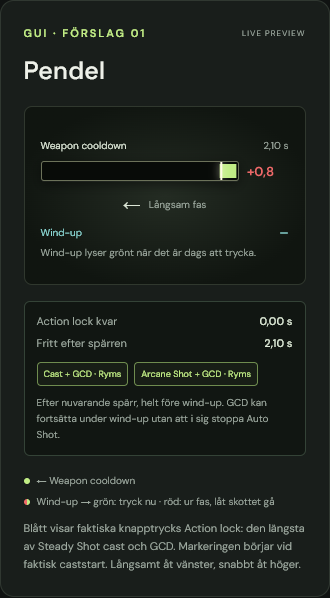
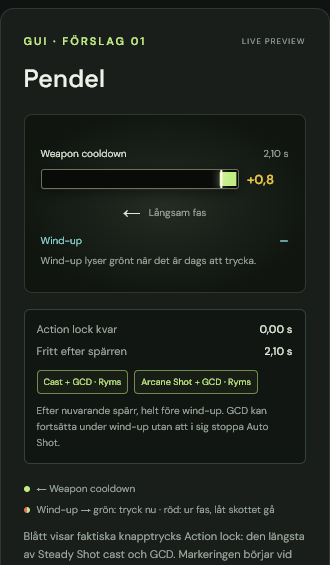
0.6.0: gul eller röd förskjutning efter brytpunkt
Förskjutningssiffran är gul när en extra spell (allt utom Steady Shot
som startar GCD) användes inom två cykler och förskjutningen ligger
under brytpunkten, annars röd. Brytpunkten är 1,3 s, uppmätt från
spelarens skada (Arcane 698 mot Auto Shot 632 + Steady 561), och
ändras med /ozs breakeven eller simulatorns reglage. Rotations- och
skademätningarna är dokumenterade i docs/timing-design.md.

diff --git a/swing-lab/dist/app.js b/swing-lab/dist/app.js
@@ -18,7 +18,7 @@ function text(id, value) {
 const sim = new Simulation();
 // Measured in TBC Anniversary 2.5.6 (docs/timing-design.md); prototype = the original dummy values.
 const PRESETS = {
-  measured: {interval: 2.29, wind: 0.36, gcd: 1.5, duration: 1.11, gcdStart: 'press'},
+  measured: {interval: 2.29, wind: 0.36, gcd: 1.5, duration: 1.11, breakEven: 1.3, gcdStart: 'press'},
   prototype: {interval: 2.8, wind: 0.5, gcd: 1, duration: 1.5, gcdStart: 'cast'}
 };
 let selectedHandle = 'cast';
@@ -54,6 +54,8 @@ function render(readouts = true) {
   cursor.style.transform = `translateX(${pendulum.cursor * 100}%)`;
   // Red delay of the last Auto Shot, one decimal, right of the bar.
   text('pendulumDelay', sim.delay >= 0.05 ? '+' + number(sim.delay, 1) : '');
+  // Yellow: an instant caused it and it stays below break-even; red otherwise.
+  $('pendulumDelay').classList.toggle('worth', !!sim.delayWorthIt);
   if (readouts) renderWindupStatus(sim);
   if (readouts) {
     const budget = actionBudget(sim);
@@ -154,7 +156,7 @@ for (const [id, kind] of [['castOffset', 'cast'], ['instantOffset', 'instant']])
   $(id).addEventListener('focus', () => selectHandle(kind));
 }
 function settings() {
-  for (const id of ['interval', 'wind', 'gcd', 'duration']) {
+  for (const id of ['interval', 'wind', 'gcd', 'duration', 'breakEven']) {
     sim.config[id] = Number($(id).value); $(id + 'Value').textContent = format(sim.config[id]);
   }
   sim.config.mode = $('mode').value;
@@ -262,7 +264,7 @@ function settings() {
   text('instantLabel', '10 skada direkt · ' + format(sim.config.gcd) + ' ny GCD');
   sim.reset(); render();
 }
-for (const id of ['interval', 'wind', 'gcd', 'duration', 'gcdStart', 'mode', 'queue', 'autoCast', 'castOffset', 'instantOffset', 'includeInstant', 'warmup']) {
+for (const id of ['interval', 'wind', 'gcd', 'duration', 'breakEven', 'gcdStart', 'mode', 'queue', 'autoCast', 'castOffset', 'instantOffset', 'includeInstant', 'warmup']) {
   $(id).addEventListener('input', () => {
     if (id === 'castOffset') selectedHandle = 'cast';
     if (id === 'instantOffset') selectedHandle = 'instant';

diff --git a/swing-lab/dist/index.html b/swing-lab/dist/index.html
@@ -73,6 +73,8 @@
 <p class="hint">Uppmätt: en cast som köas under wind-up startar vid skottet, men dess GCD löper redan från trycket.</p>
 <label>Steady Shot cast <output id="durationValue"></output><input id="duration" type="range" min="0.5" max="3" step="0.01" value="1.11"></label>
 <p class="hint">Steady Shots casttid med din ranged haste (grund 1,5 s).</p>
+<label>Brytpunkt för instant <output id="breakEvenValue"></output><input id="breakEven" type="range" min="0" max="3" step="0.1" value="1.3"></label>
+<p class="hint">Förskjutning som en instant får kosta och ändå ge mer DPS. Uppmätt cirka 1,3 s för Arcane (skada 698 mot Auto Shot 632 + Steady 561). Under brytpunkten visas siffran gul, annars röd.</p>
 <p class="hint">Arcane Shot står för valfri instant (Arcane Shot, Multi-Shot …): ingen casttid och 1,5 s GCD. Egna cooldowns modelleras inte; det intressanta är hur Steady Shot och instanten påverkar varandra via GCD.</p>
 <label>Uppspelningshastighet<select id="speed"><option value="0.25">0,25× · detaljstudie</option><option value="0.5">0,5× · långsamt</option><option value="1" selected>1× · normal</option><option value="2">2× · snabbt</option><option value="5">5× · mycket snabbt</option></select></label>
 <p class="hint">Hastigheten ändrar bara hur fort simulerad tid går. DPS räknas per simulerad sekund.</p>

diff --git a/swing-lab/dist/lab.css b/swing-lab/dist/lab.css
@@ -120,3 +120,4 @@
 .pendulum-row{display:flex;align-items:center;gap:8px}
 .pendulum-row .pendulum-track{flex:1}
 .pendulum-delay{min-width:3.2em;color:#ef6969;font-weight:600;font-size:13px;font-variant-numeric:tabular-nums}
+.pendulum-delay.worth{color:#e8c547}

diff --git a/addon/OzzySwingTimer/README.md b/addon/OzzySwingTimer/README.md
@@ -1,4 +1,4 @@
-# Ozzy Swing Timer – TBC Classic 0.5.0
+# Ozzy Swing Timer – TBC Classic 0.6.0
 
 Första spelbara prototypen för **TBC Classic Anniversary 2.5.6**, Interface 20506.
 Själva addonmappen kräver inga bibliotek eller andra addons.
@@ -18,12 +18,12 @@ Om du redan är inloggad: prova `/reload`. Starta om klienten om den nya mappen 
 - `/ozs lock` låser baren. Den döljs då när Auto Shot är avstängt.
 - Skjut Auto Shot mot ett mål, och prova sedan Steady Shot under den snabba fasen.
 
-Baren har en enda siffra, den röda förskjutningen till höger:
+Baren har en enda siffra, förskjutningen till höger:
 
 - **Weapon cooldown:** långsam fyllning från höger till vänster.
 - **Auto Shot wind-up, grön:** dags att trycka. Steady Shot köas till skottet, och dess GCD börjar redan vid trycket.
 - **Auto Shot wind-up, röd:** ur fas. Cast eller GCD hänger kvar över wind-up. Tryck inget, låt ett orört Auto Shot gå för att komma i takt igen.
-- **Röd siffra till höger, t.ex. +0,8:** hur många sekunder det senaste Auto Shot försköts jämfört med en ostörd cykel. Visas från 0,15 s, eftersom skotten varierar cirka ±0,1 s även utan clipping. Försvinner när ett skott kommer i tid.
+- **Siffra till höger, t.ex. +0,8:** hur många sekunder det senaste Auto Shot försköts jämfört med en ostörd cykel. **Gul** när en extra spell (allt utom Steady Shot som startar GCD, t.ex. Arcane) användes inom två cykler och förskjutningen är under brytpunkten (`/ozs breakeven`, standard 1,3 s): den lönade sig. **Röd** annars: den kostade DPS. Visas från 0,15 s, eftersom skotten varierar cirka ±0,1 s även utan clipping. Försvinner när ett skott kommer i tid.
 - **Blå diagonal markering:** faktisk spell cast och GCD tillsammans. Överlapp räknas en gång; GCD som fortsätter in i nästa cykel visas där också.
 
 ## Kommandon
@@ -39,6 +39,7 @@ Baren har en enda siffra, den röda förskjutningen till höger:
 | `/ozs debug on` / `off` | Starta en ny logg med de senaste 1000 timinghändelserna / stäng av |
 | `/ozs panel` | Visa/dölj testpanelen: nio tester med kort beskrivning, ny logg, spara, testläge, flytta/lås och status |
 | `/ozs mark <text>` | Lägg en markering i loggen, t.ex. `/ozs mark steady tidigt` |
+| `/ozs breakeven 1.3` | Brytpunkt i sekunder: hur mycket förskjutning en extra spell får kosta (gul siffra) |
 | `/ozs reset` | Återställ storlek, position och automatisk wind-up |
 
 Diagnostiken sparas när du loggar ut eller kör `/reload`, i klientens

diff --git a/docs/timing-design.md b/docs/timing-design.md
@@ -115,6 +115,19 @@ Det är ett enda fall, men det stöder att den röda zonen (GCD inte klar) är v
 när man trycker under wind-up, men skottet går ändå. Addonen tolkade det som blockerat
 och tappade wind-up-visningen. Det ignoreras nu under en observerad wind-up.
 
+### Rotation 3:2 och skada (addon 0.4–0.5), 2026-10-31
+
+**Rotation Steady varje cykel + instant varannan (Serpent Sting):** 12 cykler, 18 GCD-förmågor
+(taket 1,5 per cykel). Auto Shot i snitt 2,44 s mot 2,29 s, alltså cirka 0,15 s förskjutning per cykel.
+Hypotes: en handling som slutar inom cirka 0,4 s före wind-up skjuter upp skottet 0,2–0,35 s.
+Varje tryck i långsam fas skickades 0,15–0,47 s efter GCD-starten (trycket); makro eller klientkö okänt.
+
+**Skada (38 egna träffar, utan pet):** väntevärde med 24 % crit och crit-multiplikator 2,41:
+Auto Shot 632, Steady Shot 561, Arcane Shot 698. Brytpunkt för en extra spell
+= skada × cykeltid / (Auto Shot + Steady): Arcane cirka 1,3 s (2,29 s cykel), 1,2 s (Quick Shots).
+Steady sen i fasen lönar sig fortfarande upp till cirka 1,1 s förskjutning. Auto Shot och Steady
+är fysiska (rustning), Arcane inte. Litet underlag; uppdatera med fler fights.
+
 **Inte mätt än:** Aimed Shot (en tidigare logg visade cirka 2,2 s till nästa skottstart),
 haste-effekter på GCD och wind-up, och tryck utan makro.
 

diff --git a/PROJEKTBESKRIVNING.md b/PROJEKTBESKRIVNING.md
@@ -45,7 +45,7 @@ Grunden är en pendelbar:
 4. Wind-up är **röd** när spelaren är ur fas, alltså när cast eller GCD hänger kvar över wind-up. Då ska spelaren inte trycka utan låta ett orört Auto Shot gå för att komma i takt igen.
 5. En **blå diagonal markering** visar hur mycket av Weapon cooldown som upptas av cast/GCD, så att spelaren grovt ser hur mycket tid som är kvar för en spell till. Om en spärr fortsätter in i nästa cykel visas den där också.
 
-6. En **röd siffra till höger** om baren, till exempel **+0,8**, visar hur mycket det senaste Auto Shot försköts. Den syns bara när skottet faktiskt kom för sent.
+6. En **siffra till höger** om baren, till exempel **+0,8**, visar hur mycket det senaste Auto Shot försköts. Den syns bara när skottet faktiskt kom för sent. **Gul** betyder att en extra spell orsakade det och att förskjutningen ligger under brytpunkten, alltså att den lönade sig. **Röd** betyder att den kostade DPS.
 
 Målet (2026-10-31): få plats med en Steady Shot och en instant i den långsamma fasen utan att Auto Shot skjuts upp. Om det får plats beror på vapnet och haste. Flashen och den turkosa ramen är borttagna (0.3.0); signalen ska gå att läsa i ögonvrån.
 
